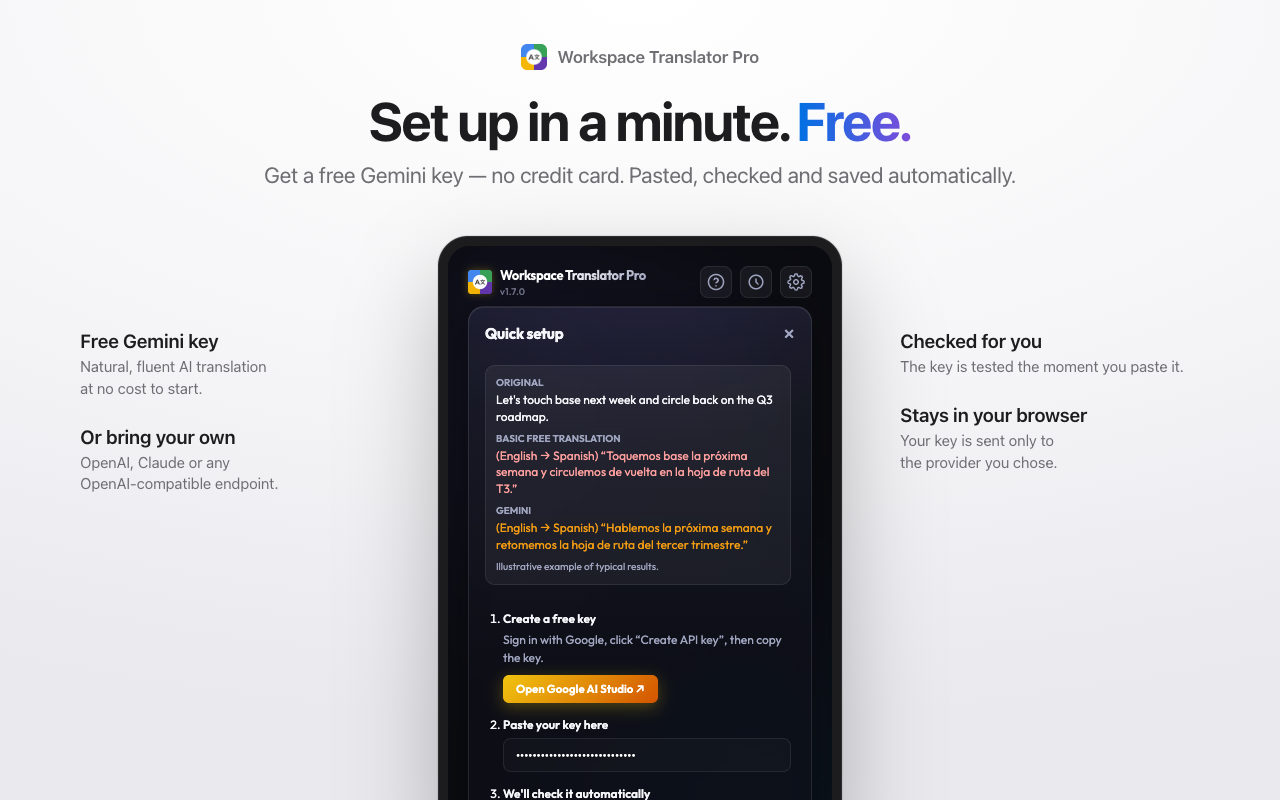
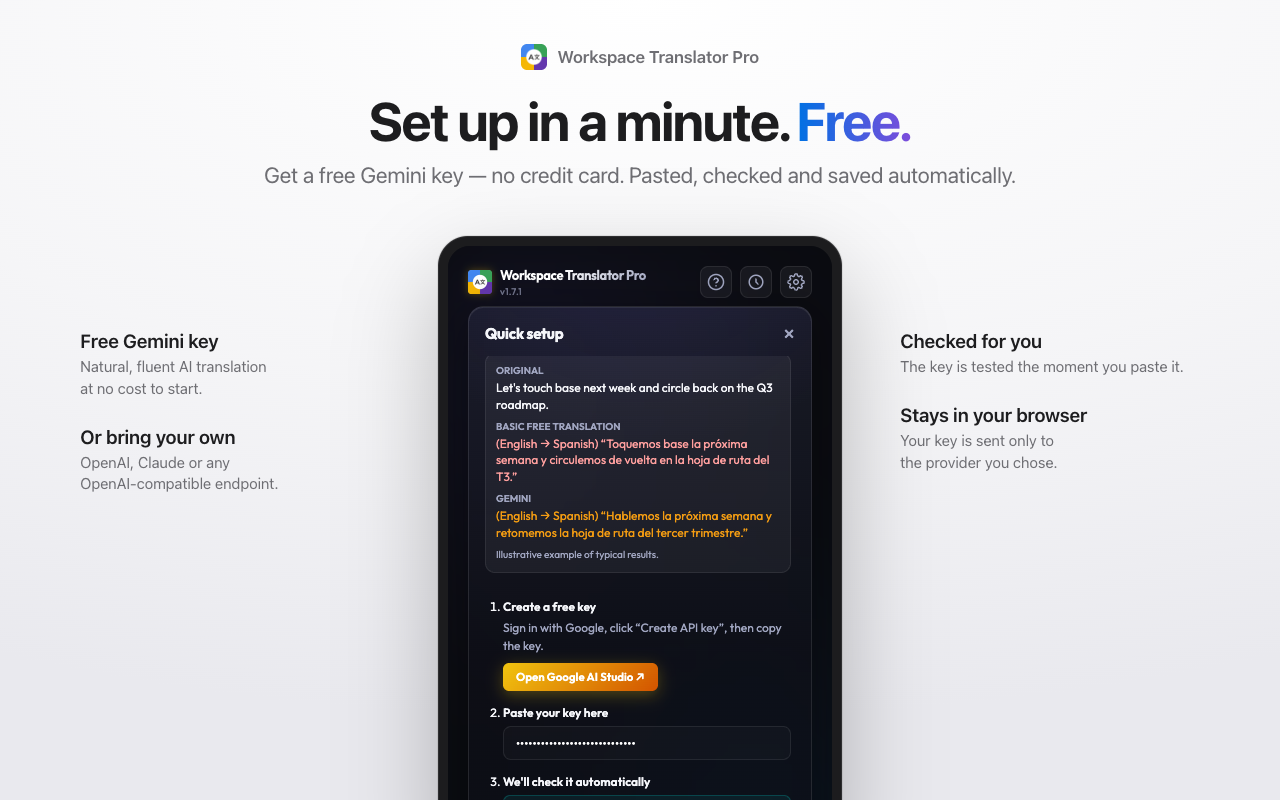
v1.7.1: language names as 'Japanese (日本語)'; pickers refresh immediately when the interface language changes

Changed region(s): [[0.375, 0.4375, 0.625, 0.7188], [0.375, 0.75, 0.625, 0.9375], [0.375, 0.9688, 0.5312, 1.0]]

diff --git a/popup.js b/popup.js
@@ -326,11 +326,12 @@ document.addEventListener('DOMContentLoaded', async () => {
     }
     updateExtraLangsCount();
 
+    const keepTarget = selectLang.value;
     selectLang.innerHTML = '';
     for (const lang of TARGET_LANGUAGES) {
       const opt = document.createElement('option');
       opt.value = lang.code;
-      // "Japanese — 日本語": readable for the user, recognisable for a native reader.
+      // "Japanese (日本語)": readable for the user, recognisable for a native reader.
       opt.textContent = targetOptionLabel(lang, document.documentElement.lang);
       selectLang.appendChild(opt);
     }
@@ -340,12 +341,13 @@ document.addEventListener('DOMContentLoaded', async () => {
         const opt = document.createElement('option');
         opt.value = lang.code;
         // Native name first (a way back from a script you can't read), then the
-        // name in the current interface language: "日本語 — Japanese".
+        // name in the current interface language: "日本語 (Japanese)".
         opt.textContent = uiLabel(lang, document.documentElement.lang);
         selectUiLang.appendChild(opt);
       }
-      selectUiLang.value = uiLang;
+      selectUiLang.value = document.documentElement.lang || uiLang;
     }
+    if (keepTarget) selectLang.value = keepTarget;
   }
   populateLanguagePickers();
 
@@ -356,6 +358,7 @@ document.addEventListener('DOMContentLoaded', async () => {
    */
   function refreshDynamicTexts() {
     applyI18n();
+    populateLanguagePickers(); // language names are written in the interface language
     refreshFileTypeTexts();
     chrome.storage.local.get('apiKeyStatus', (items) => {
       updateStatusBadge(items.apiKeyStatus || 'unverified');

diff --git a/i18n/languages.js b/i18n/languages.js
@@ -73,24 +73,24 @@ export function localLangName(lang, uiCode = ROOT_LOCALE) {
 
 /**
  * Label for the target-language dropdown: the name in the interface language,
- * then the native name — "Japanese — 日本語". Just one name when they match
+ * then the native name in brackets — "Japanese (日本語)". Just one name when they match
  * ("English" in an English UI, "繁體中文" in a Traditional Chinese UI).
  */
 export function targetOptionLabel(lang, uiCode = ROOT_LOCALE) {
   const local = localLangName(lang, uiCode);
-  return local === lang.endonym ? lang.endonym : `${local} — ${lang.endonym}`;
+  return local === lang.endonym ? lang.endonym : `${local} (${lang.endonym})`;
 }
 
 /**
  * Label for the INTERFACE language picker: the native name first, then (given
- * uiCode) the name in the current interface language, e.g. "日本語 — Japanese".
+ * uiCode) the name in the current interface language, e.g. "日本語 (Japanese)".
  */
 export function uiLabel(lang, uiCode) {
   // Native name always first, so a user who picked a script they can't read can
   // still find their own language; the current interface's name follows.
   if (!uiCode) return lang.endonym;
   const local = localLangName(lang, uiCode);
-  return local === lang.endonym ? lang.endonym : `${lang.endonym} — ${local}`;
+  return local === lang.endonym ? lang.endonym : `${lang.endonym} (${local})`;
 }
 
 /**

diff --git a/onboarding.js b/onboarding.js
@@ -120,18 +120,25 @@ document.addEventListener('DOMContentLoaded', async () => {
   if (version) document.getElementById('guide-version').textContent = `v${version}`;
 
   const picker = document.getElementById('guide-lang');
-  for (const lang of UI_LANGUAGES) {
-    const opt = document.createElement('option');
-    opt.value = lang.code;
-    opt.textContent = uiLabel(lang, document.documentElement.lang);
-    picker.appendChild(opt);
-  }
-  picker.value = code;
+  // Rebuilt after every switch: the names are written in the interface language.
+  const fillPicker = (current) => {
+    picker.innerHTML = '';
+    for (const lang of UI_LANGUAGES) {
+      const opt = document.createElement('option');
+      opt.value = lang.code;
+      opt.textContent = uiLabel(lang, current);
+      picker.appendChild(opt);
+    }
+    picker.value = current;
+  };
+  fillPicker(code);
   // Same setting as the side panel: switching here switches both.
   picker.addEventListener('change', async () => {
     await setStoredUiLang(picker.value);
-    await loadLocale(picker.value);
-    renderShots(picker.value);
+    const next = picker.value;
+    await loadLocale(next);
+    fillPicker(next);
+    renderShots(next);
     render();
   });
 

diff --git a/docs/04-版本與發布.md b/docs/04-版本與發布.md
@@ -214,10 +214,11 @@ unzip -l workspace-translate-pro-store.zip
 
 **爆炸半徑**：🟢 只改語言名稱的顯示文字，不影響翻譯流程。
 
-- 翻譯目標語言改用介面語言顯示名稱，後附原文寫法，例如英文介面「Japanese — 日本語」、繁中介面「日文 — 日本語」；
+- 翻譯目標語言改用介面語言顯示名稱，後附原文寫法，例如英文介面「Japanese (日本語)」、繁中介面「日文 (日本語)」；
   自己的語言只顯示一次。「同時翻成其他語言」標籤與完成卡片的語言連結也改用介面語言名稱（滑鼠移上顯示原文）。
-- 介面語言選單（設定頁與使用指南）改成原文在前、介面語言名稱在後，例如「日本語 — Japanese」，
+- 介面語言選單（設定頁與使用指南）改成原文在前、介面語言名稱在後，例如「日本語 (Japanese)」，
   誤切到看不懂的語言時仍能找回自己的語言。
+- 修正：切換介面語言後，翻譯目標語言與介面語言選單會立刻改用新語言顯示，並保留原本選的語言（以前要關掉側邊欄再打開）。
 - 語言名稱來自瀏覽器內建的 Intl.DisplayNames，10 種介面語言自動正確，不需維護翻譯表。
 
 ### v1.7.0（2026-10-26）

diff --git a/store-assets/listing.md b/store-assets/listing.md
@@ -75,7 +75,7 @@ No servers, no tracking. Your API key and settings stay in your browser; the tex
 
 ## What's new (for the release notes / description footer)
 
-> v1.7.1 — Language names in your interface language with the native name beside them (e.g. “Japanese — 日本語”).
+> v1.7.1 — Language names in your interface language with the native name beside them (e.g. “Japanese (日本語)”).
 >
 > v1.7.0 — Coloured or bold words inside a sentence move with the translation · optional "Concise" translation length · slide text shrinks further to fit, with a reminder to take a quick look · Sheets dropdowns translated with the cells · an unusual AI reply no longer stops the job · interface and target language follow your browser (Traditional/Simplified Chinese by region).
 >
